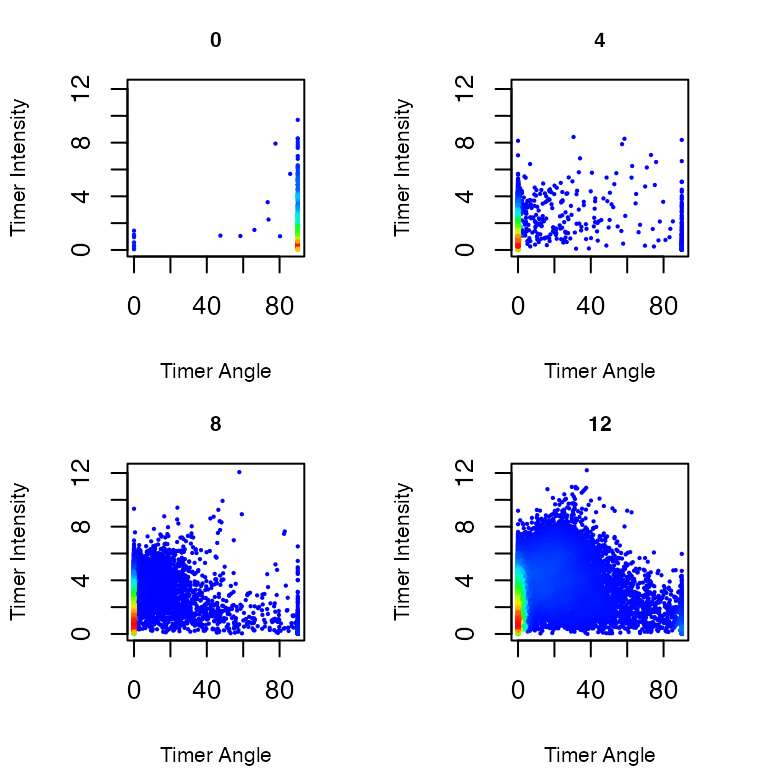
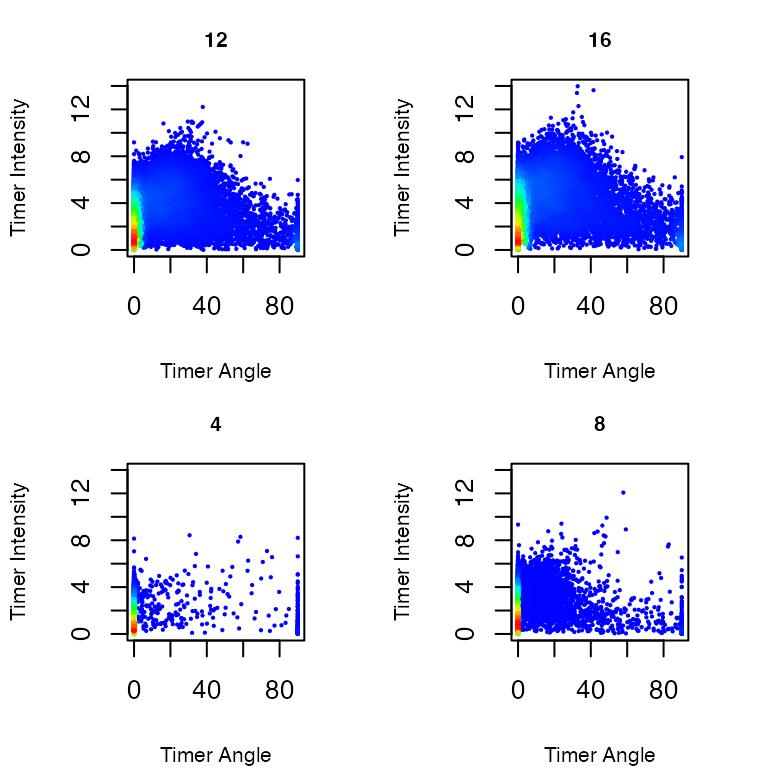
vignettes updated

diff --git a/docs/articles/TockyDataPreprocessing.html b/docs/articles/TockyDataPreprocessing.html
@@ -211,30 +211,100 @@ thrsholded Timer blue and red fluorescence.</li>
 <code>'Timer Angle and Intensity'</code>: Timer Angle and Intensity
 after trigonometric transformation.</li>
 </ul>
-<p>The default is <code>'Timer fluorescence'</code>.</p>
+<div class="section level4">
+<h4 id="non-normalized-timer-fluorescence-figure-1">Non-normalized Timer fluorescence (Figure 1)<a class="anchor" aria-label="anchor" href="#non-normalized-timer-fluorescence-figure-1"></a>
+</h4>
+<p>The default is <code>'Timer fluorescence'</code>, which is
+non-normalized Timer fluorescence.</p>
 <div class="sourceCode" id="cb12"><pre class="downlit sourceCode r">
-<code class="sourceCode R"><span><span class="va">logic</span> <span class="op">&lt;-</span> <span class="va">sample_definition</span><span class="op">$</span><span class="va">group</span> <span class="op"><a href="https://rdrr.io/r/base/match.html" class="external-link">%in%</a></span> <span class="fu"><a href="https://rdrr.io/r/base/c.html" class="external-link">c</a></span><span class="op">(</span><span class="fl">0</span>, <span class="fl">4</span>, <span class="fl">8</span>, <span class="fl">12</span><span class="op">)</span></span>
+<code class="sourceCode R"><span><span class="va">logic</span> <span class="op">&lt;-</span> <span class="va">sample_definition</span><span class="op">$</span><span class="va">group</span> <span class="op"><a href="https://rdrr.io/r/base/match.html" class="external-link">%in%</a></span> <span class="fu"><a href="https://rdrr.io/r/base/c.html" class="external-link">c</a></span><span class="op">(</span><span class="fl">4</span>, <span class="fl">8</span>, <span class="fl">12</span>, <span class="fl">16</span><span class="op">)</span></span>
 <span><span class="va">samplefiles</span> <span class="op">&lt;-</span> <span class="va">sample_definition</span><span class="op">$</span><span class="va">file</span><span class="op">[</span><span class="va">logic</span><span class="op">]</span></span>
-<span><span class="co"># Visualizing the results</span></span>
+<span><span class="fu">show</span><span class="op">(</span><span class="va">samplefiles</span><span class="op">)</span></span></code></pre></div>
+<pre><code><span><span class="co">##  [1] "sample_12hrs_R1.csv" "sample_12hrs_R2.csv" "sample_12hrs_R3.csv"</span></span>
+<span><span class="co">##  [4] "sample_16hrs_R1.csv" "sample_16hrs_R2.csv" "sample_16hrs_R3.csv"</span></span>
+<span><span class="co">##  [7] "sample_4hrs_R1.csv"  "sample_4hrs_R2.csv"  "sample_4hrs_R3.csv" </span></span>
+<span><span class="co">## [10] "sample_8hrs_R1.csv"  "sample_8hrs_R2.csv"  "sample_8hrs_R3.csv"</span></span></code></pre>
+<div class="sourceCode" id="cb14"><pre class="downlit sourceCode r">
+<code class="sourceCode R"><span><span class="co"># Visualizing the results</span></span>
 <span><span class="fu"><a href="../reference/plot_tocky.html">plot_tocky</a></span><span class="op">(</span><span class="va">transformed_data</span>, interactive <span class="op">=</span> <span class="cn">FALSE</span>, save <span class="op">=</span> <span class="cn">FALSE</span>, n <span class="op">=</span> <span class="fl">2</span>, samplefile <span class="op">=</span> <span class="va">samplefiles</span>, verbose <span class="op">=</span> <span class="cn">FALSE</span><span class="op">)</span></span></code></pre></div>
-<p><img src="TockyDataPreprocessing_files/figure-html/plot_tocky_timer_fluorescence-1.png" width="384"></p>
+<div class="figure">
+<img src="TockyDataPreprocessing_files/figure-html/plot_tocky_timer_fluorescence-1.png" alt="Figure 1: Non-normalized Timer Fluorescence in T cells stimulated by antigen and analyzed at 4, 8, 12, and 16 hours after activation." width="384"><p class="caption">
+Figure 1: Non-normalized Timer Fluorescence in T cells stimulated by
+antigen and analyzed at 4, 8, 12, and 16 hours after activation.
+</p>
+</div>
+</div>
+<div class="section level4">
+<h4 id="normalized-timer-fluorescence-figure-2">Normalized Timer fluorescence (Figure 2)<a class="anchor" aria-label="anchor" href="#normalized-timer-fluorescence-figure-2"></a>
+</h4>
 <p>Using the option
 <code>plot_mode = "Normalized Timer fluorescence"</code>, you can
 visualize Normalized Timer blue and red fluorescence.</p>
-<div class="sourceCode" id="cb13"><pre class="downlit sourceCode r">
+<div class="sourceCode" id="cb15"><pre class="downlit sourceCode r">
 <code class="sourceCode R"><span><span class="co"># Visualizing the results</span></span>
 <span><span class="fu"><a href="../reference/plot_tocky.html">plot_tocky</a></span><span class="op">(</span><span class="va">transformed_data</span>, plot_mode <span class="op">=</span> <span class="st">"Normalized Timer fluorescence"</span>, interactive <span class="op">=</span> <span class="cn">FALSE</span>, save <span class="op">=</span> <span class="cn">FALSE</span>, n <span class="op">=</span> <span class="fl">2</span>, samplefile <span class="op">=</span> <span class="va">samplefiles</span>, verbose <span class="op">=</span> <span class="cn">FALSE</span><span class="op">)</span></span></code></pre></div>
-<p><img src="TockyDataPreprocessing_files/figure-html/plot_tocky_normalized-1.png" width="384"></p>
+<div class="figure">
+<img src="TockyDataPreprocessing_files/figure-html/plot_tocky_normalized-1.png" alt="Figure 2: Normalized Timer Fluorescence in T cells stimulated by antigen and analyzed at 4, 8, 12, and 16 hours after activation." width="384"><p class="caption">
+Figure 2: Normalized Timer Fluorescence in T cells stimulated by antigen
+and analyzed at 4, 8, 12, and 16 hours after activation.
+</p>
+</div>
+</div>
+<div class="section level4">
+<h4 id="timer-angle-and-intensity-figure-3">Timer Angle and Intensity (Figure 3)<a class="anchor" aria-label="anchor" href="#timer-angle-and-intensity-figure-3"></a>
+</h4>
 <p>Using the option
 <code>plot_mode = "Timer Angle and Intensity"</code>, you can visualize
 the effects of the trigonometric transformation applied to the
 normalized data.</p>
-<div class="sourceCode" id="cb14"><pre class="downlit sourceCode r">
+<div class="sourceCode" id="cb16"><pre class="downlit sourceCode r">
 <code class="sourceCode R"><span><span class="co"># Visualizing the results</span></span>
 <span><span class="fu"><a href="../reference/plot_tocky.html">plot_tocky</a></span><span class="op">(</span><span class="va">transformed_data</span>, plot_mode <span class="op">=</span> <span class="st">"Timer Angle and Intensity"</span>, interactive <span class="op">=</span> <span class="cn">FALSE</span>, save <span class="op">=</span> <span class="cn">FALSE</span>, n <span class="op">=</span> <span class="fl">2</span>, samplefile <span class="op">=</span> <span class="va">samplefiles</span>, verbose <span class="op">=</span> <span class="cn">FALSE</span><span class="op">)</span></span></code></pre></div>
-<p><img src="TockyDataPreprocessing_files/figure-html/plot_tocky_Angle_Intensity-1.png" width="384"></p>
-<p><img src="assets%2FTockyPrep.png" width="30%"></p>
+<div class="figure">
+<img src="TockyDataPreprocessing_files/figure-html/plot_tocky_Angle_Intensity-1.png" alt="Figure 3: Timer Angle and Timer Intensity in T cells stimulated by antigen and analyzed at 4, 8, 12, and 16 hours after activation." width="384"><p class="caption">
+Figure 3: Timer Angle and Timer Intensity in T cells stimulated by
+antigen and analyzed at 4, 8, 12, and 16 hours after activation.
+</p>
+</div>
+</div>
+</div>
+</div>
+<div class="section level2">
+<h2 id="conclusion">Conclusion<a class="anchor" aria-label="anchor" href="#conclusion"></a>
+</h2>
+<p><strong>TockyPrep</strong> provides a comprehensive suite of data
+preprocessing methods for deriving Timer Angle and Timer Intensity data.
+This suite includes Timer thresholding, Timer normalization, and
+trigonometric transformation. The resulting Timer Angle and Intensity
+data can be robustly used in downstream analyses.</p>
+<p>Please explore downstream analysis examples in <span class="citation">Bending, Martı́n, et al. (<a href="#ref-Bending2018JCB">2018</a>)</span>; <span class="citation">Bending, Paduraru, et al. (<a href="#ref-Bending2018EMBO">2018</a>)</span>; and <span class="citation">Hassan et al. (<a href="#ref-Hassan2022">2022</a>)</span>.</p>
+<p><img src="assets%2FTockyPrep.png" width="50%"></p>
 <p><img src="assets%2FMonoLab.jpg" width="30%"></p>
+</div>
+<div class="section level2">
+<h2 class="unnumbered" id="references">References<a class="anchor" aria-label="anchor" href="#references"></a>
+</h2>
+<div id="refs" class="references csl-bib-body hanging-indent" entry-spacing="0">
+<div id="ref-Bending2018JCB" class="csl-entry">
+Bending, David, Paz Prieto Martı́n, Alina Paduraru, Catherine Ducker,
+Erik Marzaganov, Marie Laviron, Satsuki Kitano, Hitoshi Miyachi, Tessa
+Crompton, and Masahiro Ono. 2018. <span>“A Timer for Analyzing
+Temporally Dynamic Changes in Transcription During Differentiation in
+Vivo.”</span> <em>Journal of Cell Biology</em> 217 (8): 2931–50. <a href="https://rupress.org/jcb/article/217/8/2931/39442/A-timer-for-analyzing-temporally-dynamic-changes" class="external-link">https://rupress.org/jcb/article/217/8/2931/39442/A-timer-for-analyzing-temporally-dynamic-changes</a>.
+</div>
+<div id="ref-Bending2018EMBO" class="csl-entry">
+Bending, David, Alina Paduraru, Catherine B Ducker, Paz Prieto Martín,
+Tessa Crompton, and Masahiro Ono. 2018. <span>“A Temporally Dynamic
+Foxp3 Autoregulatory Transcriptional Circuit Controls the Effector Treg
+Programme.”</span> Journal Article. <em>The EMBO Journal</em> 37 (16):
+e99013. <a href="https://www.embopress.org/doi/full/10.15252/embj.201899013" class="external-link">https://www.embopress.org/doi/full/10.15252/embj.201899013</a>.
+</div>
+<div id="ref-Hassan2022" class="csl-entry">
+Hassan, Jehanne, Elizabeth Appleton, Bahire Kalfaoglu, Malin Pedersen,
+José Almeida-Santos, Hisashi Kanemaru, Nobuko Irie, et al. 2022.
+<span>“Single-Cell Level Temporal Profiling of Tumour-Reactive t Cells
+Under Immune Checkpoint Blockade.”</span> <em>bioRxiv</em>. <a href="https://doi.org/10.1101/2022.07.19.500582" class="external-link">https://doi.org/10.1101/2022.07.19.500582</a>.
+</div>
 </div>
 </div>
   </main><aside class="col-md-3"><nav id="toc" aria-label="Table of contents"><h2>On this page</h2>

diff --git a/docs/reference/plot_tocky.html b/docs/reference/plot_tocky.html
@@ -57,7 +57,7 @@ by the Tocky method (Angle vs Intensity) based on the specified mode.</p>
 <span>  plot_mode <span class="op">=</span> <span class="st">"Timer fluorescence"</span>,</span>
 <span>  lower_quantile_cutoff <span class="op">=</span> <span class="fl">0.01</span>,</span>
 <span>  select <span class="op">=</span> <span class="cn">FALSE</span>,</span>
-<span>  group <span class="op">=</span> <span class="cn">TRUE</span>,</span>
+<span>  use_group <span class="op">=</span> <span class="cn">TRUE</span>,</span>
 <span>  group_order <span class="op">=</span> <span class="cn">NULL</span>,</span>
 <span>  interactive <span class="op">=</span> <span class="cn">TRUE</span>,</span>
 <span>  save <span class="op">=</span> <span class="cn">FALSE</span>,</span>
@@ -106,7 +106,7 @@ by the Tocky method (Angle vs Intensity) based on the specified mode.</p>
 <dd><p>Logical indicating whether to manually select samples for plotting.</p></dd>
 
 
-<dt id="arg-group">group<a class="anchor" aria-label="anchor" href="#arg-group"></a></dt>
+<dt id="arg-use-group">use_group<a class="anchor" aria-label="anchor" href="#arg-use-group"></a></dt>
 <dd><p>Logical indicating whether to group plots based on the `group` field in `sampledef`.</p></dd>
 
 

diff --git a/docs/news/index.html b/docs/news/index.html
@@ -39,8 +39,9 @@
 
     <div class="section level2">
 <h2 class="pkg-version" data-toc-text="0.1.0" id="changes-in-version-010-2024-11-09">Changes in version 0.1.0 (2024-11-09)<a class="anchor" aria-label="anchor" href="#changes-in-version-010-2024-11-09"></a></h2>
-<ul><li>Resolved a NAMESPACE issue</li>
-<li>S4 methods have been implemented</li>
+<ul><li>Resolved an issue with the NAMESPACE that prevented certain functions from being properly imported.</li>
+<li>Implemented S4 methods for improved object-oriented programming capabilities within the package.</li>
+<li>Updated all vignettes to reflect the latest functionalities and usage examples.</li>
 </ul></div>
   </main></div>
 

diff --git a/NEWS.md b/NEWS.md
@@ -1,4 +1,5 @@
 ## Changes in version 0.1.0 (2024-11-09)
 
-- Resolved a NAMESPACE issue
-- S4 methods have been implemented
+- Resolved an issue with the NAMESPACE that prevented certain functions from being properly imported.
+- Implemented S4 methods for improved object-oriented programming capabilities within the package.
+- Updated all vignettes to reflect the latest functionalities and usage examples.
